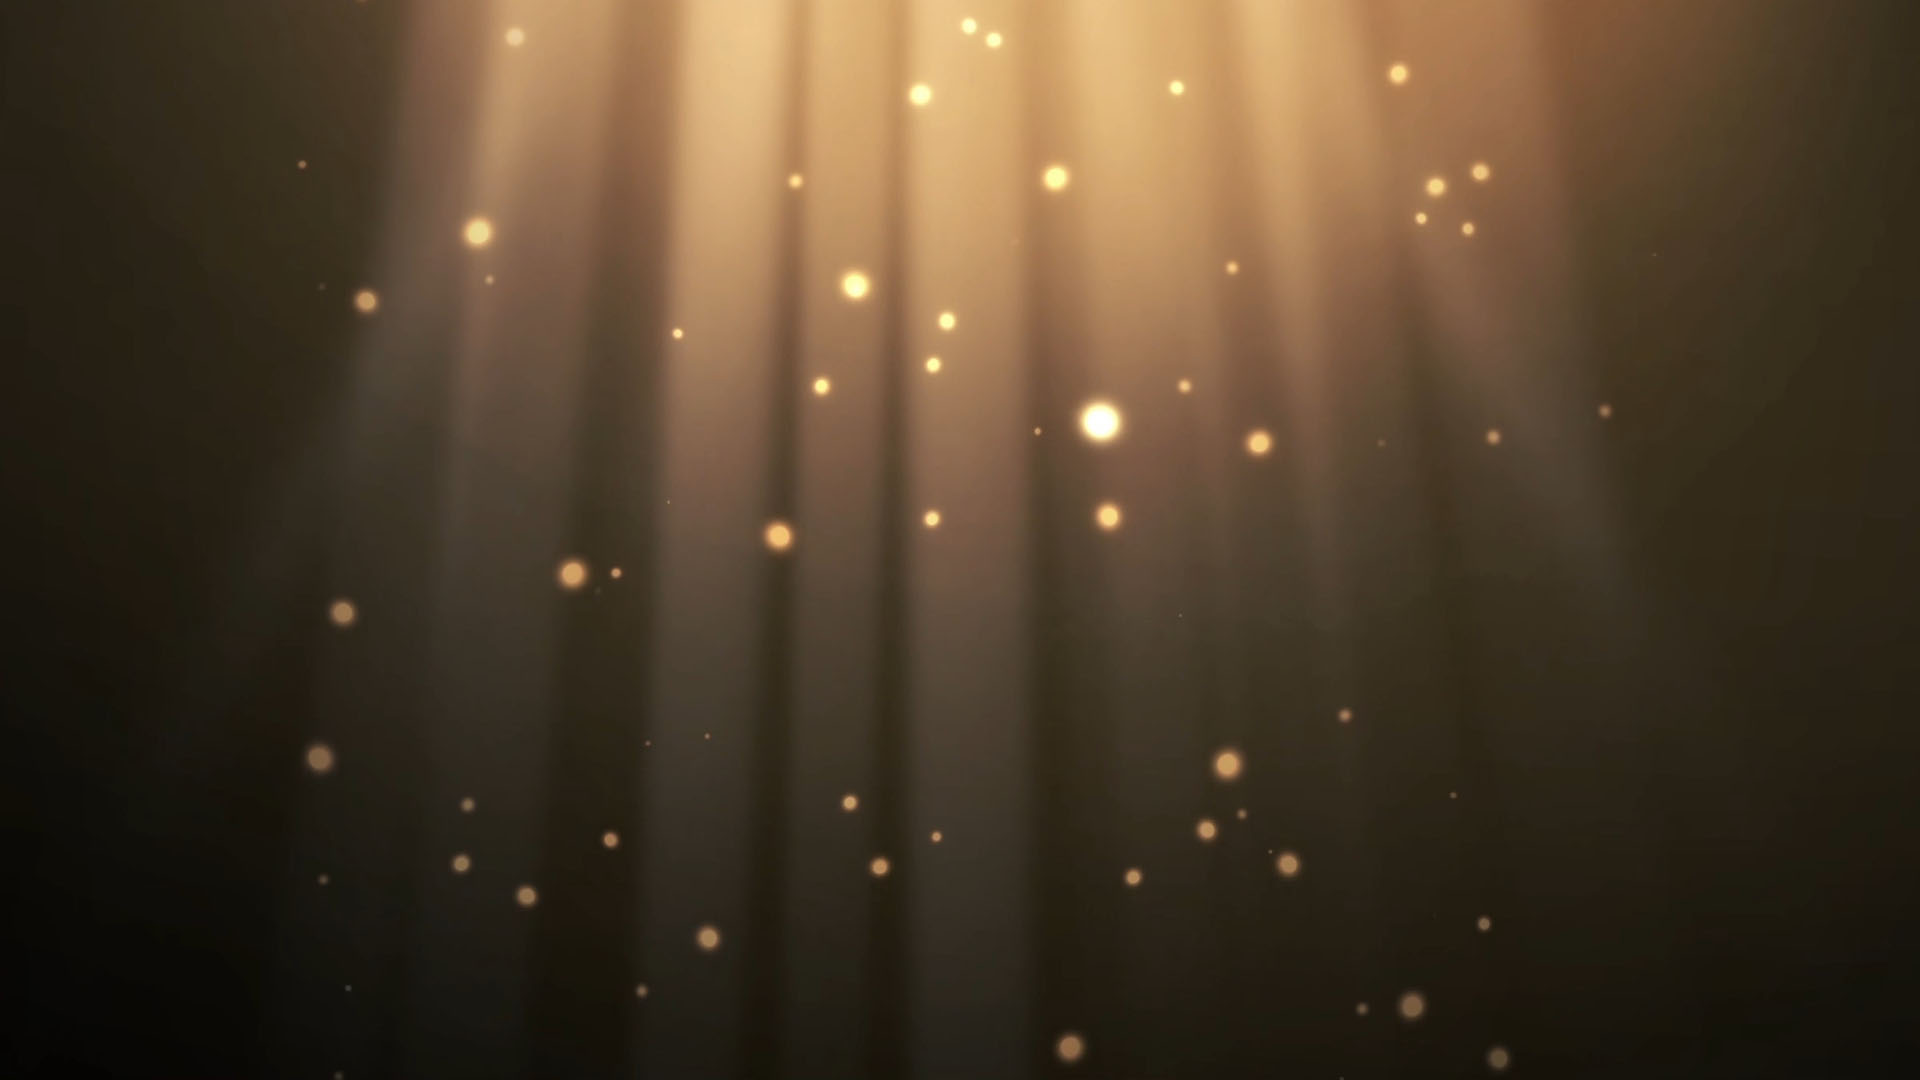
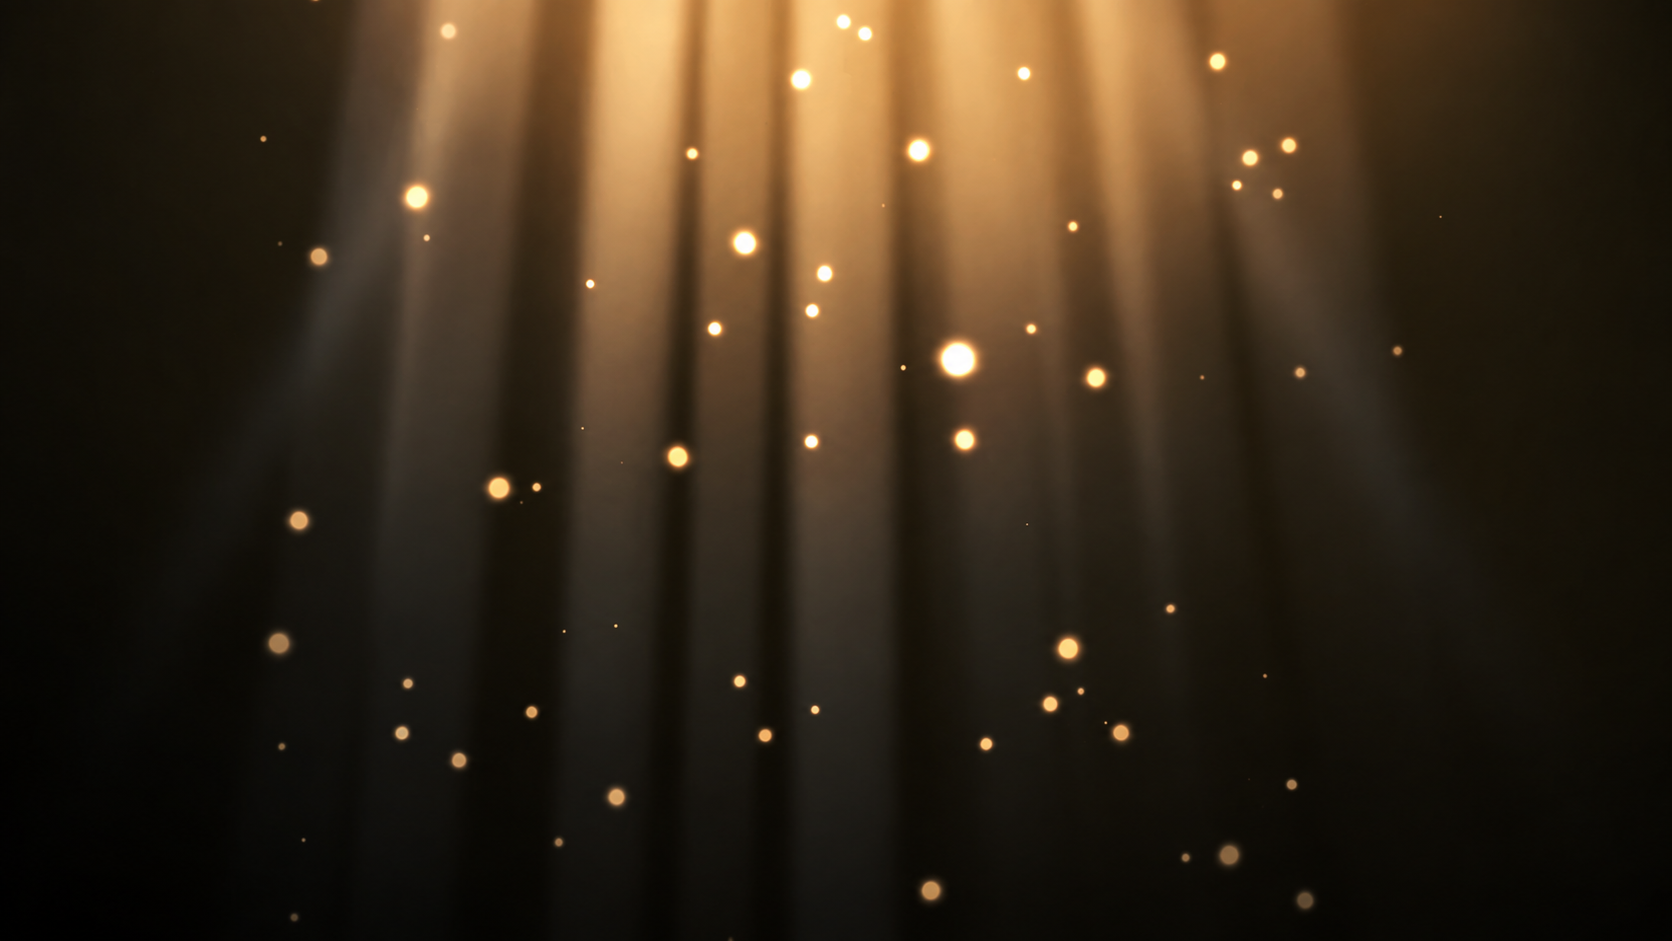
Fix: bugs

diff --git a/core/src/main/java/Yousof/HollowKnight/Screen/Main/MainModal.java b/core/src/main/java/Yousof/HollowKnight/Screen/Main/MainModal.java
@@ -36,17 +36,17 @@ public class MainModal extends Modal {
         menus.add(btnAchievements).row();
         menus.add(btnQuit).row();
 
-        Texture left = new Texture("Sprites/Menu/Hidden_Dreams_Logo.png");
-        Image leftImg = new Image(left);
-        Texture right = new Texture("Sprites/Menu/team_cherry_logo_main_menu.png");
-        Image rightImg = new Image(right);
+        // Texture left = new Texture("Sprites/Menu/Hidden_Dreams_Logo.png");
+        // Image leftImg = new Image(left);
+        // Texture right = new Texture("Sprites/Menu/team_cherry_logo_main_menu.png");
+        // Image rightImg = new Image(right);
 
         Table bottomTable = new Table();
         bottomTable.pad(30);
 
-        bottomTable.add(leftImg).left().uniformX().expandX().padLeft(50f);
+        // bottomTable.add(leftImg).left().uniformX().expandX().padLeft(50f);
         bottomTable.add(menus).center().expandX();
-        bottomTable.add(rightImg).right().uniformX().expandX().size(120).padRight(50f);
+        // bottomTable.add(rightImg).right().uniformX().expandX().size(120).padRight(50f);
 
         this.add(bottomTable).growX().expandY().bottom();
         this.padBottom(80f);

diff --git a/core/src/main/java/Yousof/HollowKnight/Model/entities/knight/sensors/KnightAttackSensors.java b/core/src/main/java/Yousof/HollowKnight/Model/entities/knight/sensors/KnightAttackSensors.java
@@ -31,12 +31,12 @@ public class KnightAttackSensors {
         fdef.friction = 0f;
         fdef.isSensor = true;
         fdef.shape = shape;
-        fdef.filter.maskBits = Constants.BIT_ENEMY | Constants.BIT_NPC;
+        fdef.filter.maskBits = Constants.BIT_ENEMY | Constants.BIT_NPC | Constants.BIT_GROUND;
 
         float rightLeftSensorWidth = 70f / Constants.PPM;
         float rightLeftSensorHeight = hy * 0.7f;
         float upDownSensorWidth = 3 * hx;
-        float upDownSensorHeight = 45f / Constants.PPM;
+        float upDownSensorHeight = 65f / Constants.PPM;
         
 
         shape.setAsBox(upDownSensorWidth, upDownSensorHeight, new Vector2(0, -hy -upDownSensorHeight), 0);

diff --git a/core/src/main/java/Yousof/HollowKnight/Model/entities/knight/state/KnightAttackState.java b/core/src/main/java/Yousof/HollowKnight/Model/entities/knight/state/KnightAttackState.java
@@ -45,10 +45,9 @@ public class KnightAttackState extends KnightState{
             currentDir = Direction.HOR;
             animation = AnimationManager.Knight.create("Slash", PlayMode.NORMAL, frameRate);
         }
-
-        AudioManager.getInstance().playSound(AudioStore.HollowKnightSword.path);
-
         performAttack();
+        AudioManager.getInstance().playSound(AudioStore.HollowKnightSword.path);
+        
     }
 
     @Override
